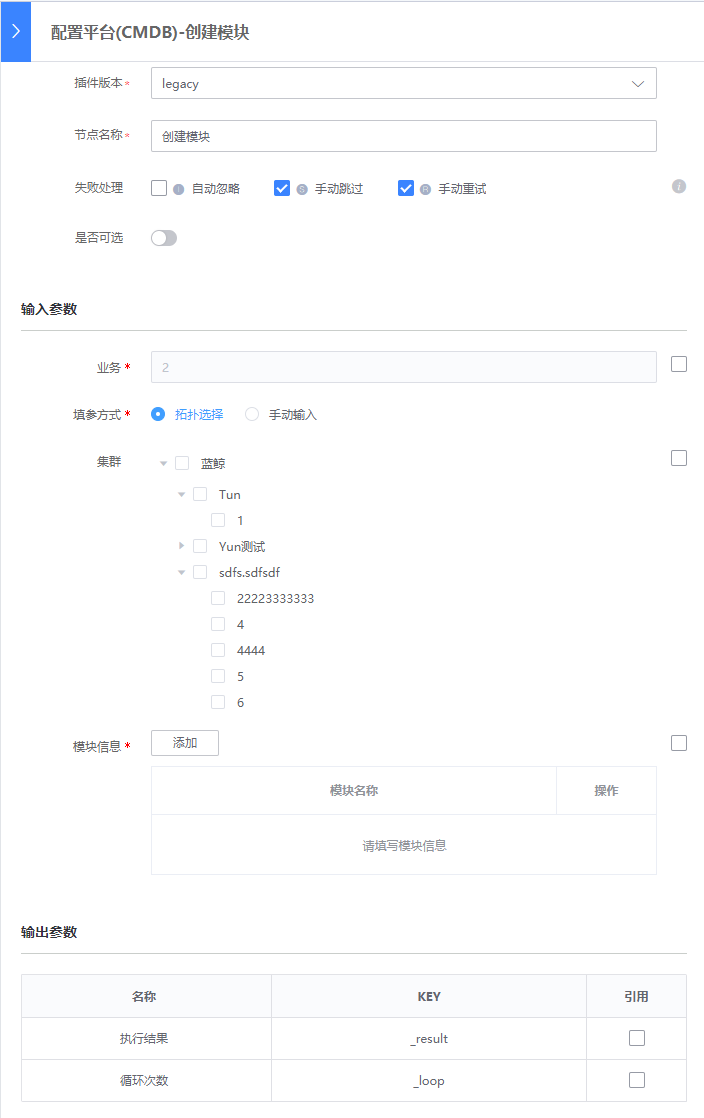
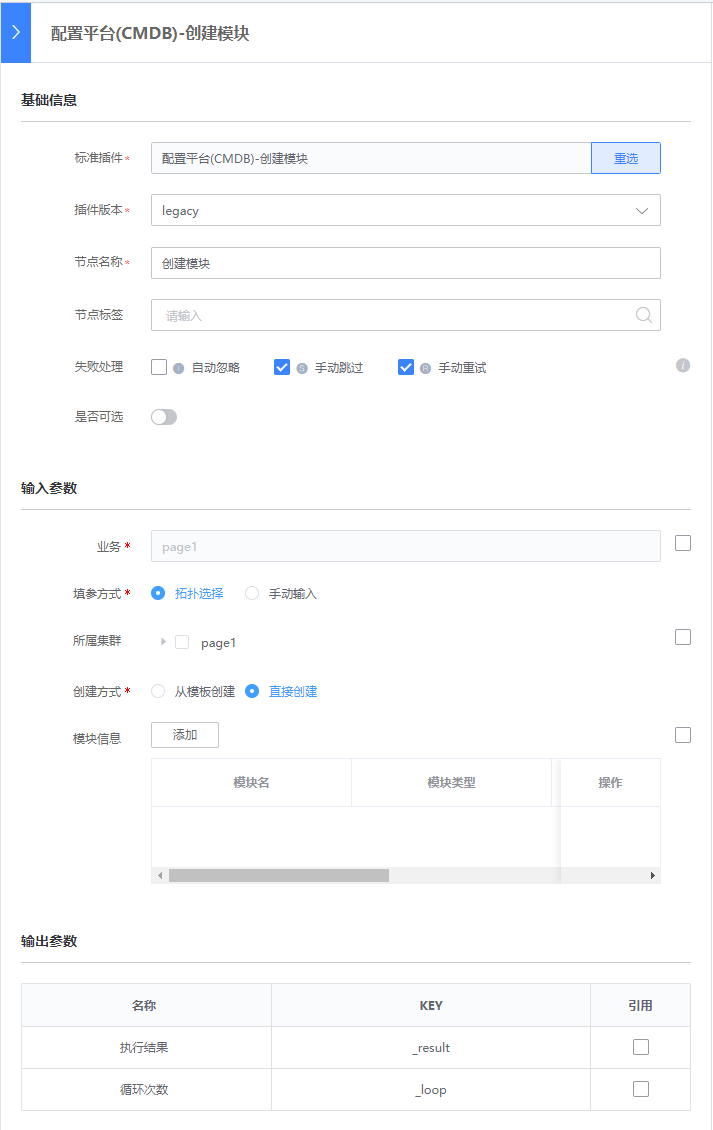
docs: 支持直接创建（按服务分类创建） & 按服务模板创建功能对应文档修改

diff --git a/pipeline_plugins/components/collections/sites/open/docs/cc/create_module/legacy.md b/pipeline_plugins/components/collections/sites/open/docs/cc/create_module/legacy.md
@@ -24,9 +24,16 @@
     * 换行区分路径，`>`区分层级
     * example: `a>b>c\n   a>b`
     * 已容错：冗余回车/空格
+    
+* `cc_create_method` 创建方式
+    * `category` 直接创建（按服务分类创建）
+    * `template` 通过服务模板创建
 
-* `cc_module_infos` 模块信息列表（对象列表）
-    * `cc_module_name` 模块名称
+* `cc_module_infos_category` 模块信息列表-直接创建（通过服务分类创建）(对象列表)
+    * 必须参数：`bk_module_name` 模块名称
+
+* `cc_module_infos_template` 模块信息列表-按服务模板创建(对象列表)
+    * 必须参数：`cc_service_templates` 模板名称_模板id
 
 ## 输出参数说明
 
@@ -42,11 +49,16 @@
 
 ![](../images/create_module_legacy_text.png)
 
+通过服务模板创建集群
+![](../images/create_module_legacy_template.png)
+
+通过服务分类创建
+![](../images/create_module_legacy_category.png)
+
 ## 注意事项
 
 * `cc_set_select_topo` 字段只在`cc_set_select_method`为`topo`时有效
 
 * `cc_set_select_text` 字段只在`cc_set_select_method`为`text`时有效
   
-
-  
+* 通过服务模板创建时，模块名称`bk_module_id`与服务模板名称`service_template_name`保持一致，无需填写
